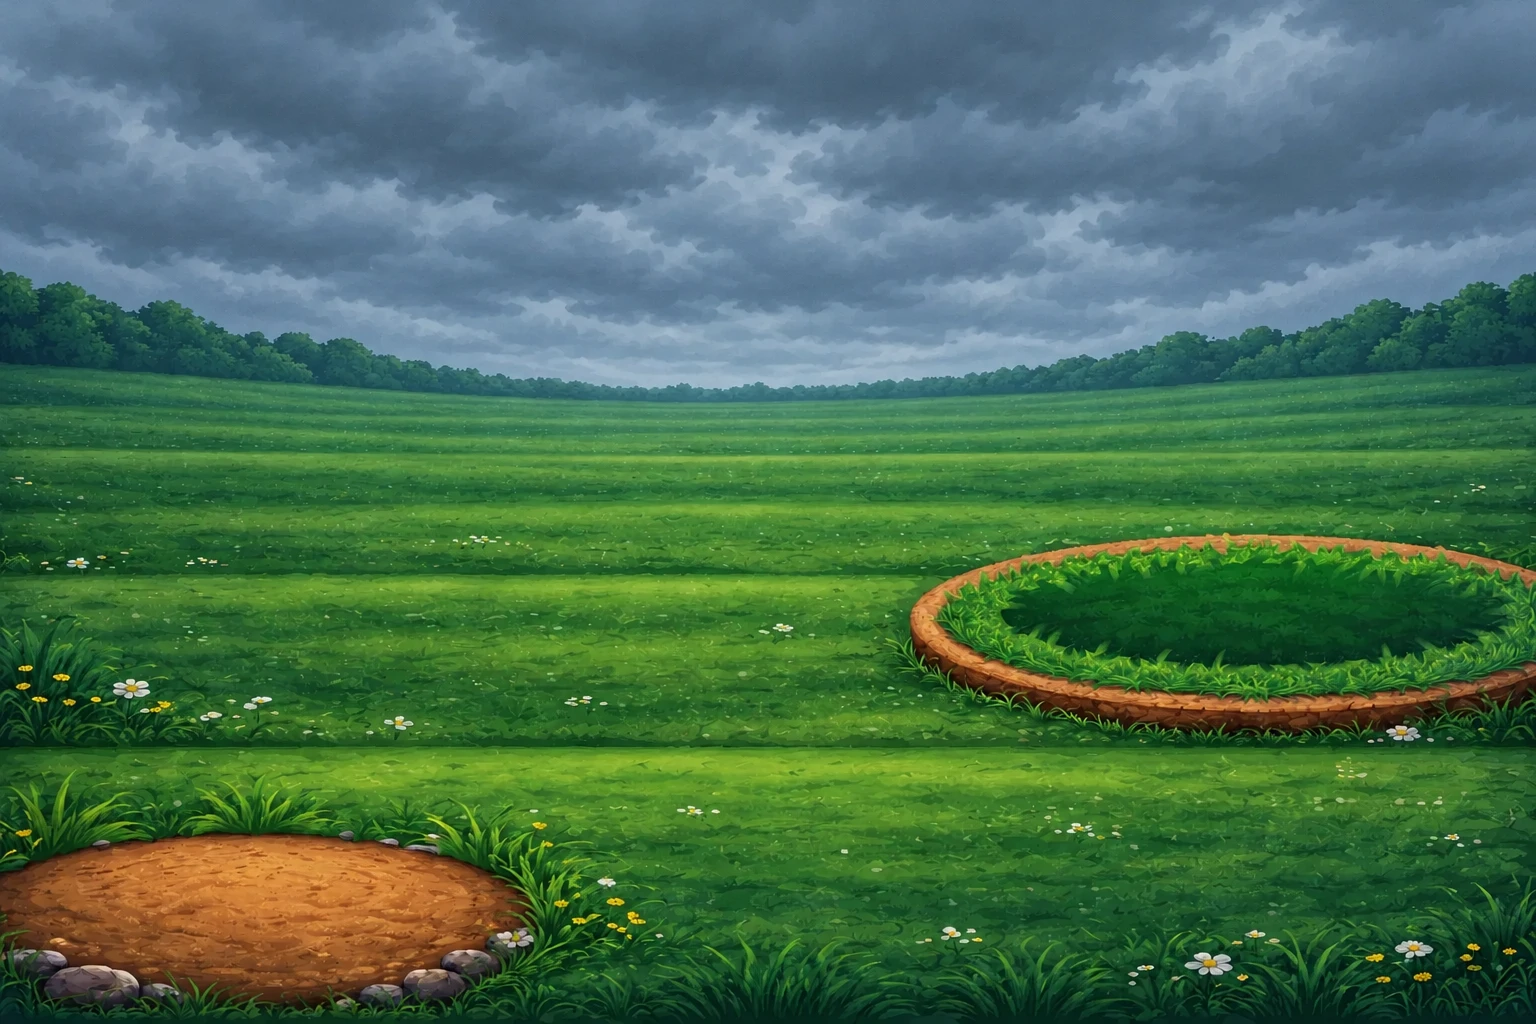
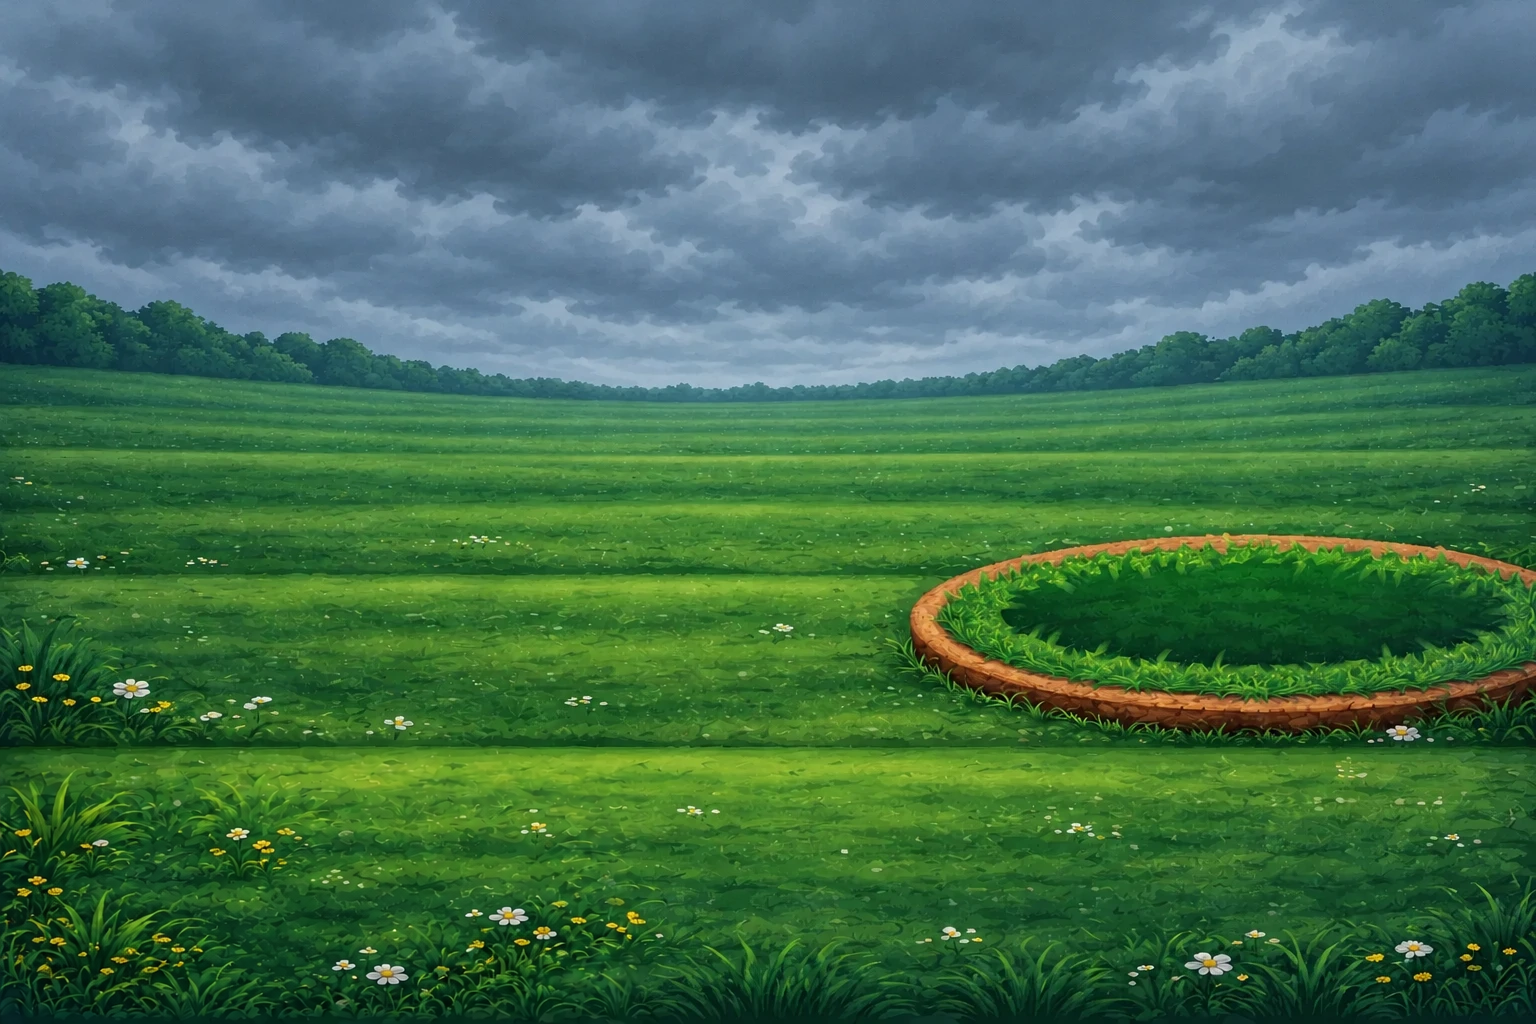
Remove allied platforms from every battle scene

Changed region(s): [[0.0, 0.7812, 0.4062, 1.0]]

diff --git a/src/components/battle/BattleOverlay.vue b/src/components/battle/BattleOverlay.vue
@@ -21,7 +21,7 @@
       <battle-waterfalls v-if="!challenge && environment === 'lake-gym'" :animations-enabled="preferences.animationsEnabled" />
       <!-- Share the fighters' ground anchors; background cropping must not move their platforms. -->
       <template v-if="challenge || mobile || gymBackground || environment === 'raph-gym' || environment === 'cave' || environment === 'lake-gym' || environment === 'lake' || environment === 'snow'">
-        <div v-for="side in ['wild', 'player']" :key="`platform-${side}`" :class="['battle-platform', `battle-position-${side}`]" :data-battle-platform="side" aria-hidden="true">
+        <div class="battle-platform battle-position-wild" data-battle-platform="wild" aria-hidden="true">
           <img v-if="environment === 'lake-gym'" src="../../assets/battle/mounir-platform-v1.webp" alt=""><span v-else-if="mobile || gymBackground || environment === 'raph-gym' || environment === 'cave' || environment === 'lake' || environment === 'snow'" :class="['battle-ground-disc', { 'arena-disc': challenge, 'gym-disc': Boolean(gymBackground), 'raph-disc': environment === 'raph-gym', 'cave-disc': environment === 'cave', 'snow-disc': environment === 'snow', 'lake-disc': environment === 'lake' }]" ></span><img v-else src="../../assets/battle/colosseum-platform.webp" alt="">
         </div>
       </template>
